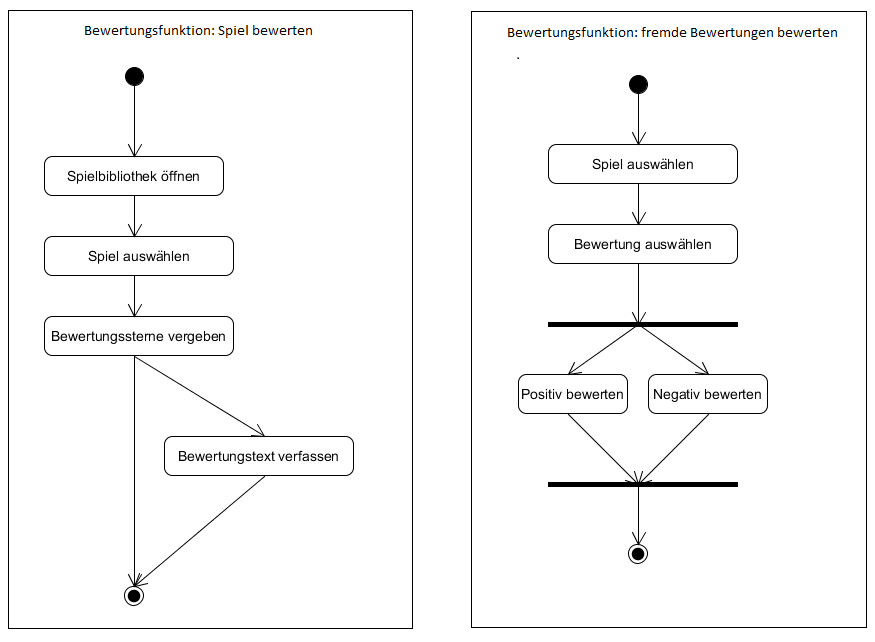
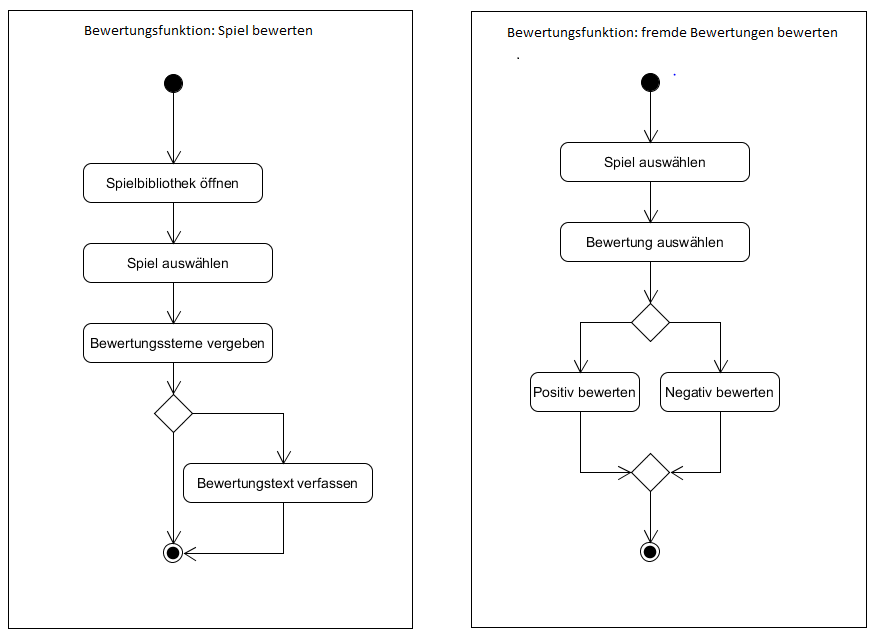
Aktivitätsdiagramm überarbeitet

diff --git a/Pflichtenheft.md b/Pflichtenheft.md
@@ -96,7 +96,7 @@ Die Bewertungsfunktion (Verweis / Bewertungssterne) wird bei jedem Spiel angezei
 
 #### Use-Case-Diagramm
 <br>
-<img src="./images/UseCase_Bewertungsfunktion.png" width="1000">
+<img src="./images/UseCase/UseCase_Bewertungsfunktion.png" width="1000">
 <br>
 
 #### Aktivitätsdiagramme
